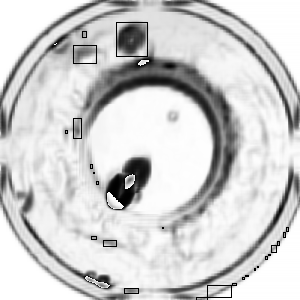
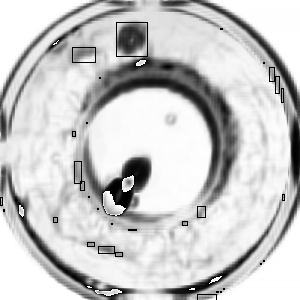
Change something

diff --git a/python_code/compare_eye.py b/python_code/compare_eye.py
@@ -67,5 +67,5 @@ def start():
             color = (0,255,0)
         if i[2] == 3:
             color = (255,0,0)
-        cv2.rectangle(coor, (i[0], i[1]), (i[0] + 5, i[1] + 5), color, 1)
+        cv2.rectangle(coor, (i[0], i[1]), (i[0] + 3, i[1] + 3), color, 1)
     cv2.imwrite("result/coor.png", coor)
